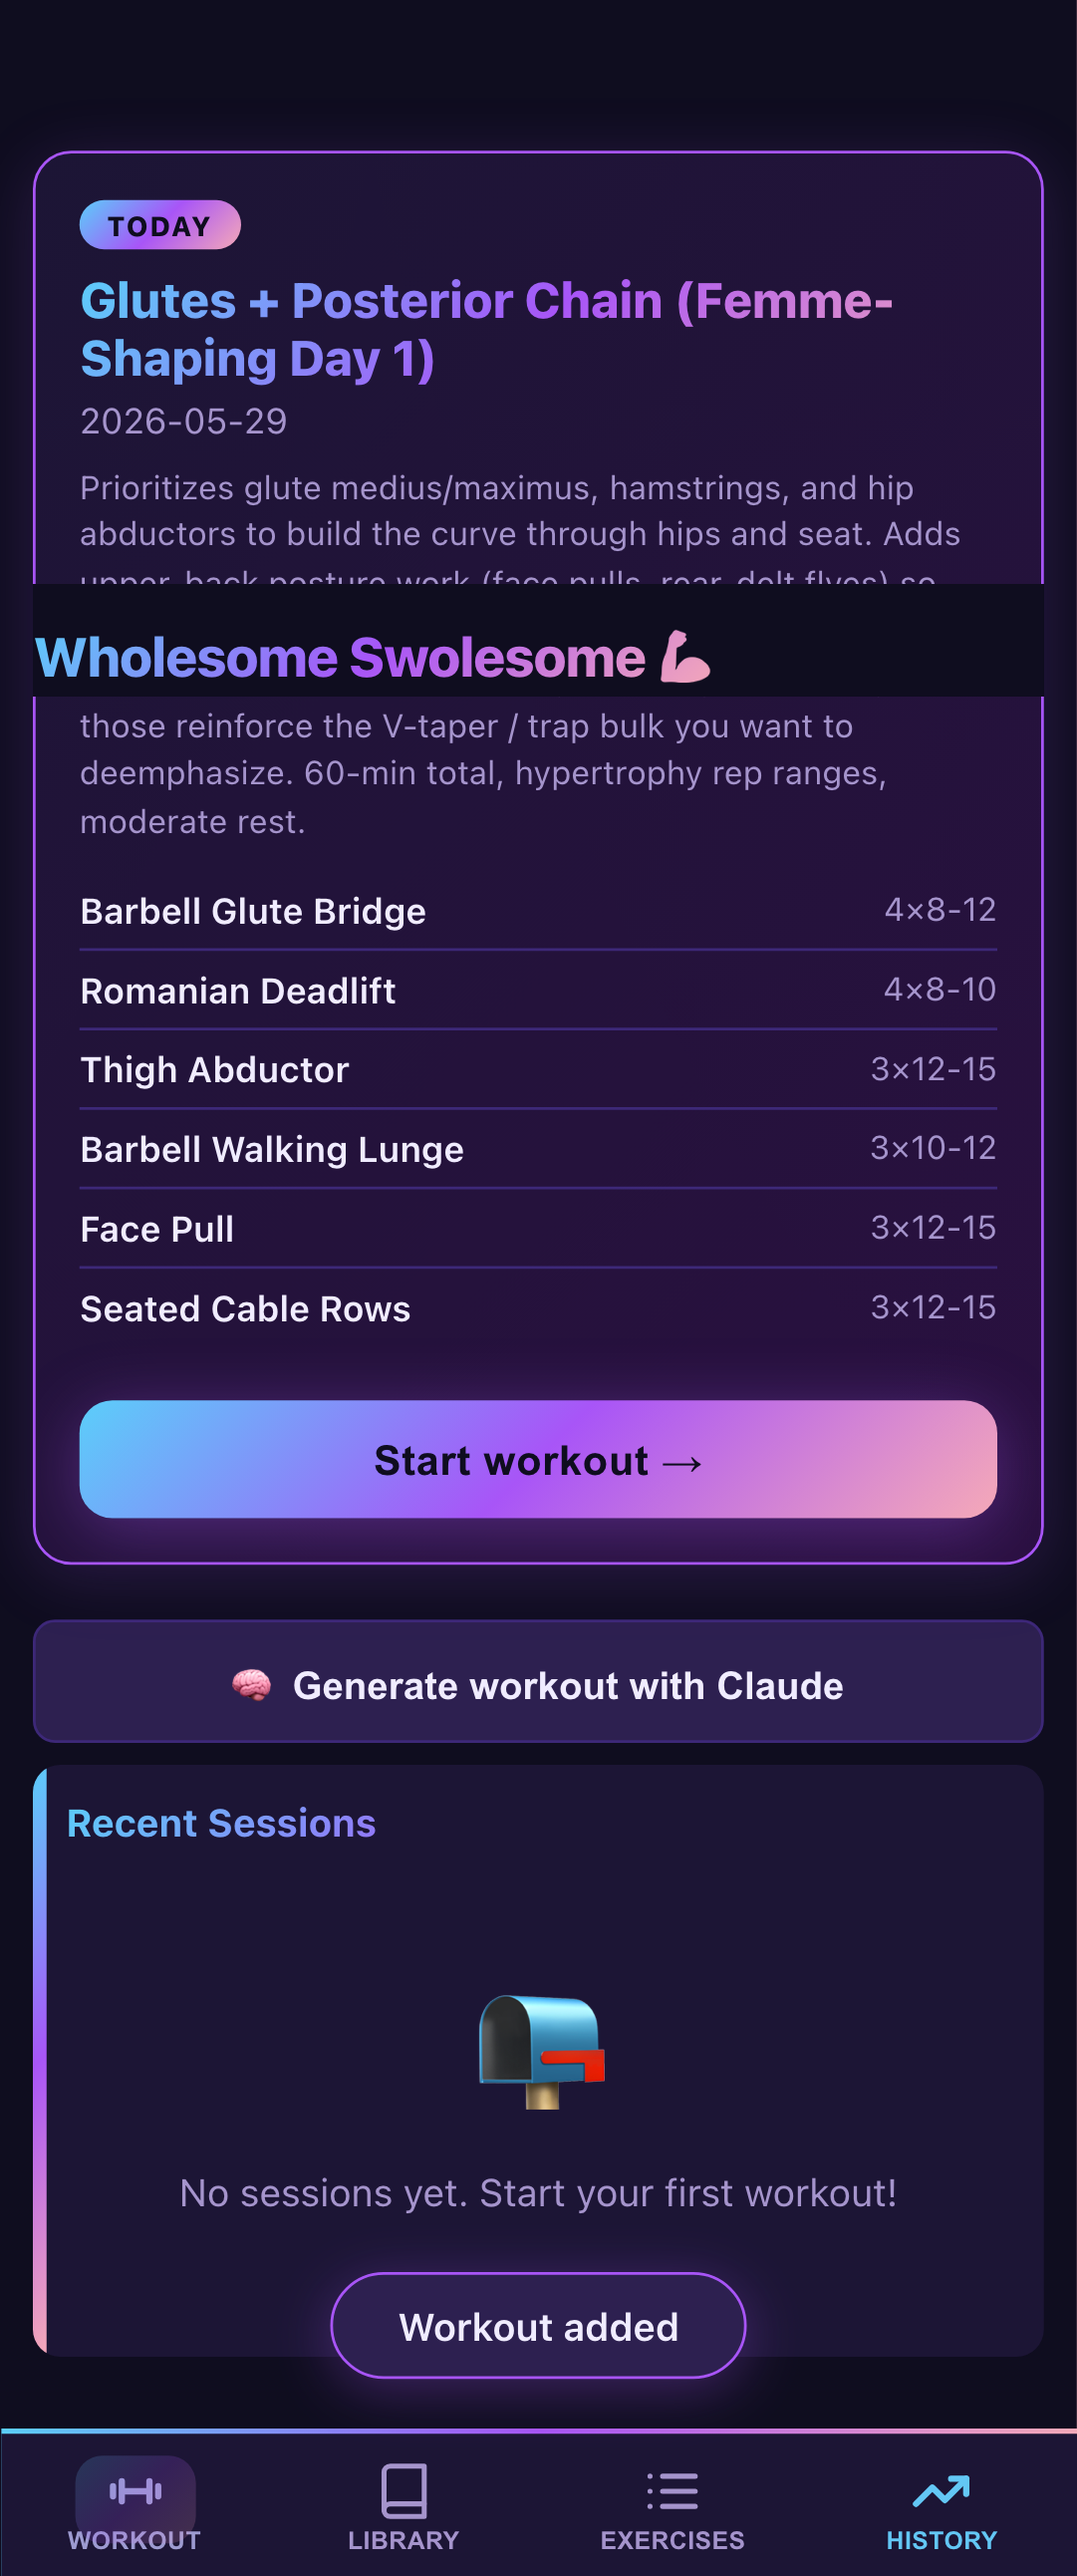
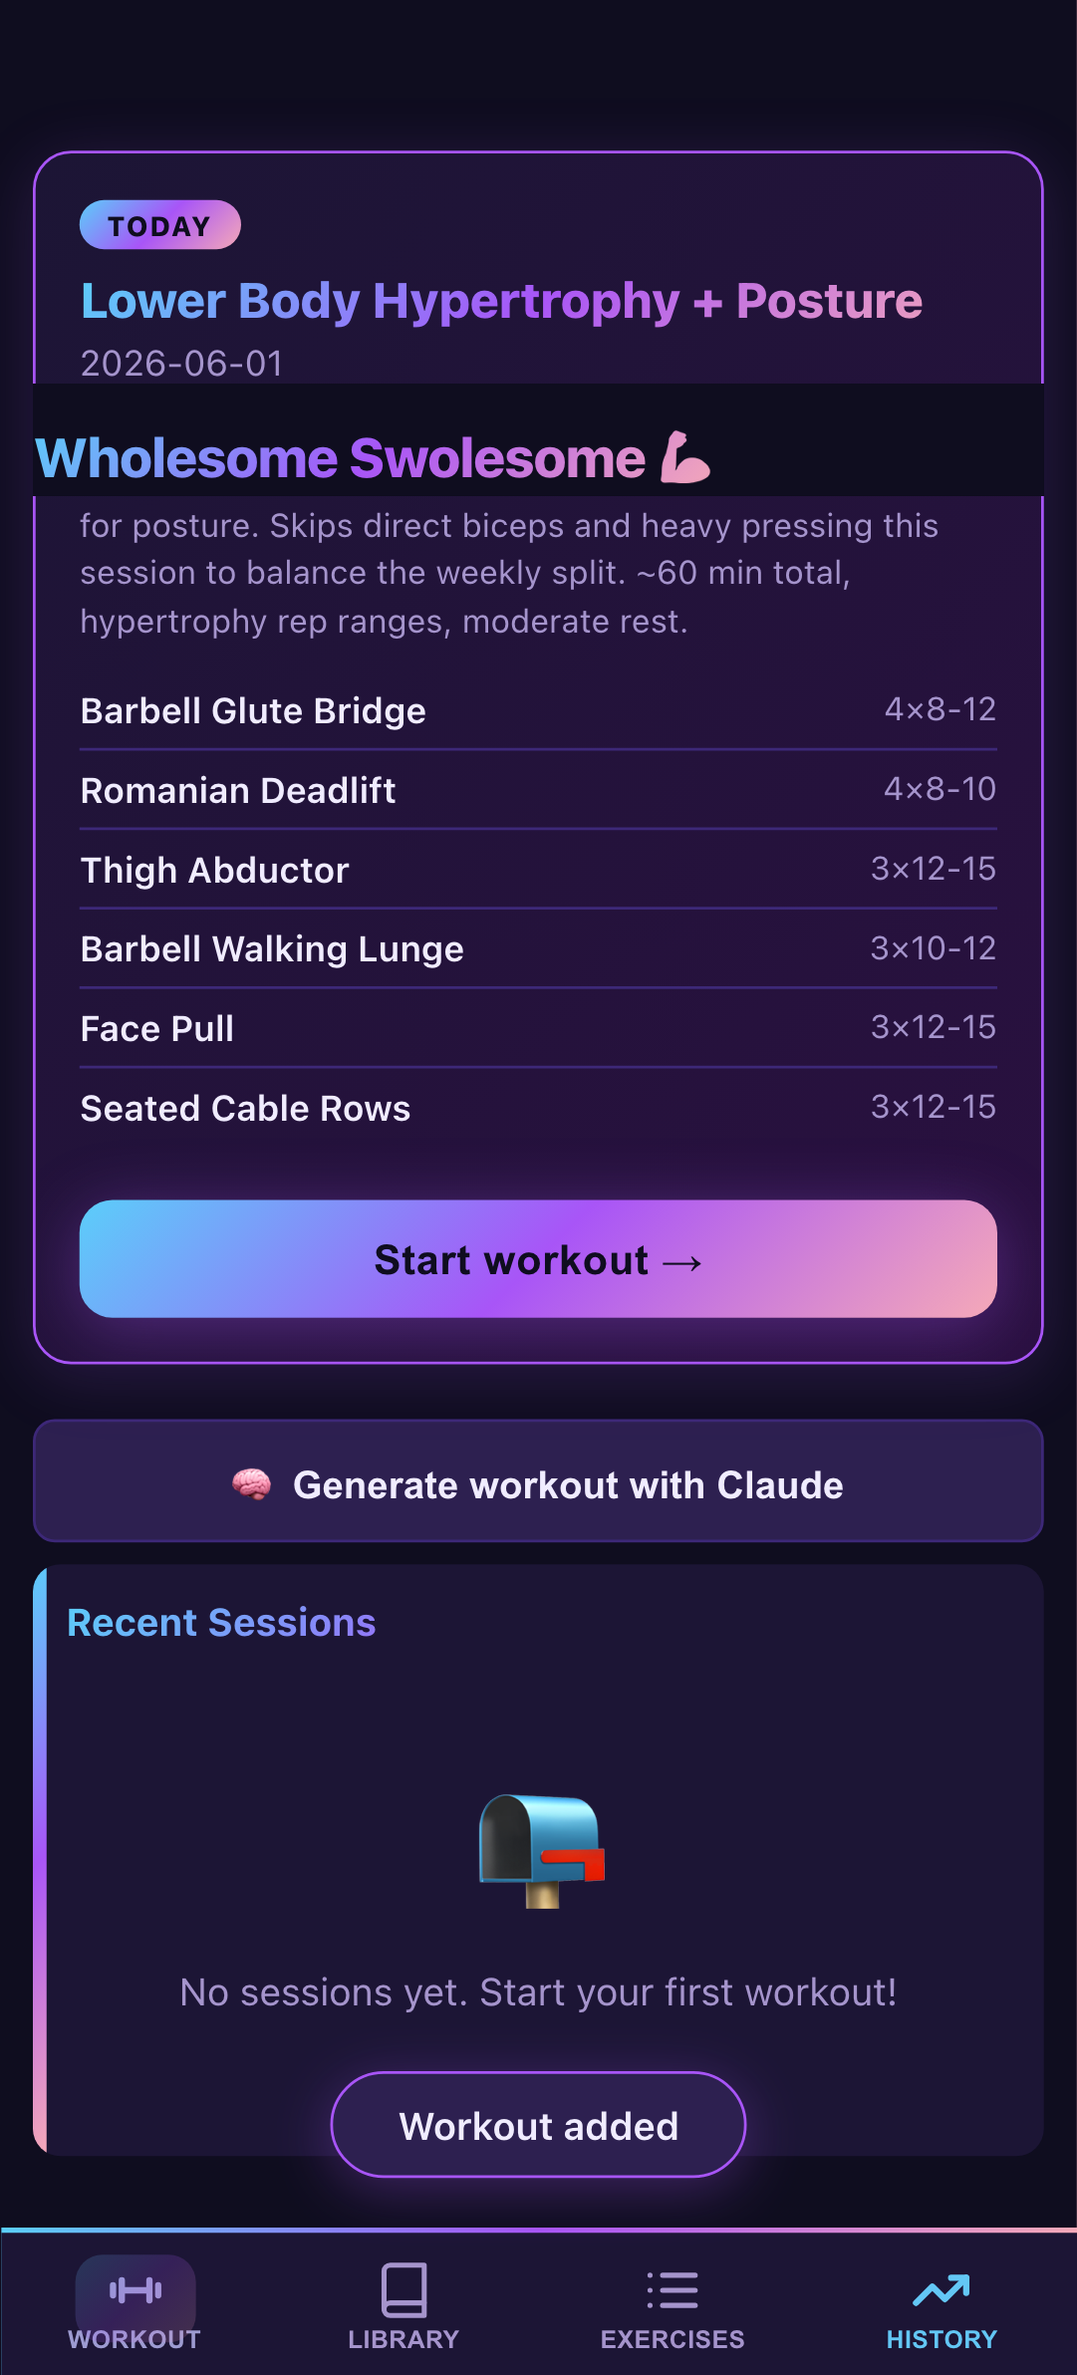
Scrub trans-femme + other personal references; make repo generic
The walkthrough test and its committed screenshots baked in trans-femme
goal language that was personally identifying. Rewrites the test as a
generic hypertrophy day, regenerates all 9 committed screenshots, and
tidies up a few other personal hints scattered through the repo.

Walkthrough

- tests/playwright/walkthrough_transfemme.spec.ts → walkthrough_hypertrophy.spec.ts
  (rename + describe block + SHOTS_DIR + content)
- Goals notes textarea: generic "Hypertrophy focus; balanced push/pull.
  Prefer compound lifts. Building glutes and posterior chain for athletic
  shape." (was: trans-femme-coded prompt)
- Avoid textarea: "Left shoulder limitation — no heavy overhead pressing."
  (was: lat/trap-avoidance prompt)
- COACH_RESPONSE name: "Lower Body Hypertrophy + Posture" (was: "Glutes
  + Posterior Chain (Femme-Shaping Day 1)")
- COACH_RESPONSE rationale + per-exercise notes rewritten without
  femme-coded language. Library IDs unchanged so the import validator
  is still exercised by real entries.
- All 9 docs/walkthrough/*.png regenerated from the new test
- docs/walkthrough.md + walkthrough_legday.spec.ts comment updated to
  reference the renamed spec file

Other personal hints

- src/components/options.rs default sync repo: "tbaums/wholesome-swolesome-data"
  → "you/wholesome-swolesome-data" (the user fills in their own at runtime;
  existing localStorage values are preserved). options.spec.ts assertion
  updated to match.
[…]

Changed region(s): [[0.0305, 0.0621, 0.9769, 0.7139], [0.0, 0.745, 1.0, 0.9933], [0.9463, 0.0621, 0.9769, 0.0931]]

diff --git a/tests/playwright/walkthrough_hypertrophy.spec.ts b/tests/playwright/walkthrough_hypertrophy.spec.ts
@@ -3,7 +3,7 @@ import * as path from 'path';
 import * as fs from 'fs';
 
 const BASE = 'http://localhost:8080';
-const SHOTS_DIR = path.join(__dirname, 'screenshots', 'walkthrough_transfemme');
+const SHOTS_DIR = path.join(__dirname, 'screenshots', 'walkthrough_hypertrophy');
 
 fs.mkdirSync(SHOTS_DIR, { recursive: true });
 
@@ -16,14 +16,13 @@ async function shot(page: Page, label: string) {
   console.log(`  📸 ${path.basename(file)}`);
 }
 
-// The user's prompt, hand-translated into a structured workout request.
-// Femme-shaping bias: glutes / hams / hip width / posterior chain / posture,
-// deemphasize lat width, trap bulk, chest mass, and direct biceps volume.
+// Generic hypertrophy lower-body + posture day. Library IDs are real entries
+// from /public/data/exercises.json so the import path exercises the validator.
 const COACH_RESPONSE = JSON.stringify(
   {
-    name: 'Glutes + Posterior Chain (Femme-Shaping Day 1)',
+    name: 'Lower Body Hypertrophy + Posture',
     rationale:
-      'Prioritizes glute medius/maximus, hamstrings, and hip abductors to build the curve through hips and seat. Adds upper-back posture work (face pulls, rear-delt flyes) so shoulders sit back and chest opens without adding lat flare. Skips direct biceps, heavy pressing, and shrugs — those reinforce the V-taper / trap bulk you want to deemphasize. 60-min total, hypertrophy rep ranges, moderate rest.',
+      'Glutes, hamstrings, and hip abductors with a mix of compound and isolation, plus rear-delt and mid-back work for posture. Skips direct biceps and heavy pressing this session to balance the weekly split. ~60 min total, hypertrophy rep ranges, moderate rest.',
     exercises: [
       {
         library_id: 'Barbell_Glute_Bridge',
@@ -41,7 +40,7 @@ const COACH_RESPONSE = JSON.stringify(
         reps_min: 8,
         reps_max: 10,
         rest_seconds: 120,
-        notes: 'Hinge bias — hamstrings + glute fibers, minimal lower-back drive.',
+        notes: 'Hinge bias — hamstrings and glute fibers, minimal lower-back drive.',
       },
       {
         library_id: 'Thigh_Abductor',
@@ -50,7 +49,7 @@ const COACH_RESPONSE = JSON.stringify(
         reps_min: 12,
         reps_max: 15,
         rest_seconds: 60,
-        notes: 'Glute medius — builds hip width / shelf above the seat.',
+        notes: 'Glute medius — builds lateral hip strength.',
       },
       {
         library_id: 'Barbell_Walking_Lunge',
@@ -68,7 +67,7 @@ const COACH_RESPONSE = JSON.stringify(
         reps_min: 12,
         reps_max: 15,
         rest_seconds: 60,
-        notes: 'Rear delts + external rotation — posture, opens chest without bulking pecs.',
+        notes: 'Rear delts and external rotation — shoulder health and posture.',
       },
       {
         library_id: 'Seated_Cable_Rows',
@@ -77,7 +76,7 @@ const COACH_RESPONSE = JSON.stringify(
         reps_min: 12,
         reps_max: 15,
         rest_seconds: 60,
-        notes: 'Mid-back thickness for posture; avoid wide-grip lat work that flares the back.',
+        notes: 'Mid-back thickness for posture.',
       },
     ],
   },
@@ -93,7 +92,7 @@ async function freshFromBase(page: Page) {
   await page.waitForSelector('.bottom-nav');
 }
 
-test.describe('Transfemme walkthrough', () => {
+test.describe('Hypertrophy walkthrough', () => {
   test('full goal → coach → session → history flow', async ({ page }) => {
     test.setTimeout(120_000);
 
@@ -139,16 +138,16 @@ test.describe('Transfemme walkthrough', () => {
       await page.locator('.goal-pill').filter({ hasText: new RegExp(`^${eq}$`) }).click();
     }
 
-    // ── 9. Notes textarea — the user's actual prompt ──────────────────────────
+    // ── 9. Notes textarea — a generic athletic-shape prompt ──────────────────
     const textareas = page.locator('.card textarea');
     // avoid box first
     await textareas.nth(0).fill(
-      'No heavy direct biceps work, no shrugs, no wide-grip pulldowns. Avoid anything that thickens lats or traps.',
+      'Left shoulder limitation — no heavy overhead pressing.',
     );
     await textareas.nth(0).press('Tab');
     // notes box second
     await textareas.nth(1).fill(
-      "I'm a transfemme person trying to maximize a femme silhouette and deemphasize my muscley masc default. Bias glutes, hamstrings, hip abductors, and posture (rear delts, mid-back). Avoid lat width, trap bulk, chest mass, and direct biceps volume. Aesthetics over strength PRs.",
+      'Hypertrophy focus; balanced push/pull. Prefer compound lifts. Building glutes and posterior chain for athletic shape.',
     );
     await textareas.nth(1).press('Tab');
 

diff --git a/tests/playwright/walkthrough_legday.spec.ts b/tests/playwright/walkthrough_legday.spec.ts
@@ -7,10 +7,10 @@ import * as fs from 'fs';
 //    with primary/secondary muscles highlighted.
 //  - A workout whose exercise names match library entries (Barbell Squat,
 //    Romanian Deadlift, etc.) colors the corresponding lower-body muscles
-//    on the History heatmap after the session is logged. The transfemme
-//    walkthrough only exercises name-matching for a few muscles; this one
-//    is specifically a regression net for the heatmap-coloring path on
-//    quads + glutes + hamstrings + calves.
+//    on the History heatmap after the session is logged. The main
+//    hypertrophy walkthrough only exercises name-matching for a few
+//    muscles; this one is specifically a regression net for the
+//    heatmap-coloring path on quads + glutes + hamstrings + calves.
 
 const BASE = 'http://localhost:8080';
 const SHOTS_DIR = path.join(__dirname, 'screenshots', 'walkthrough_legday');

diff --git a/tests/playwright/options.spec.ts b/tests/playwright/options.spec.ts
@@ -95,7 +95,7 @@ test.describe('Options view — sync configuration', () => {
     await expect(page.locator('input[type="text"]').nth(1)).toHaveValue('main');
     await expect(page.locator('input[type="text"]').nth(2)).toHaveValue('state.json');
     // Default repo placeholder name is filled
-    await expect(page.locator('input[type="text"]').first()).toHaveValue('tbaums/wholesome-swolesome-data');
+    await expect(page.locator('input[type="text"]').first()).toHaveValue('you/wholesome-swolesome-data');
   });
 
   test('Test connection: success path renders the sha confirmation', async ({ page }) => {

diff --git a/src/components/options.rs b/src/components/options.rs
@@ -16,7 +16,7 @@ pub fn OptionsView() -> impl IntoView {
     let saved = storage::load_sync_config();
     let token = RwSignal::new(saved.token);
     let repo = RwSignal::new(if saved.repo.is_empty() {
-        "tbaums/wholesome-swolesome-data".to_string()
+        "you/wholesome-swolesome-data".to_string()
     } else {
         saved.repo
     });

diff --git a/docs/walkthrough.md b/docs/walkthrough.md
@@ -205,7 +205,7 @@ about again — sidesteps the whole pile.
   (date, day, exercise, set #, reps, weight, completed, duration). If you ever
   outgrow the app, you walk away with a CSV.
 - **Walkthrough-as-tests.** This page's screenshots come from
-  `tests/playwright/walkthrough_transfemme.spec.ts` — the same e2e test that
+  `tests/playwright/walkthrough_hypertrophy.spec.ts` — the same e2e test that
   proves the goal → coach → session → history flow works end-to-end. Updating
   the screenshots is just re-running the test.
 

diff --git a/scripts/coach/PROMPT.md b/scripts/coach/PROMPT.md
@@ -22,7 +22,7 @@ The shell that invokes you sets these env vars; if they're missing, fall back to
 
 | Var | Default | Meaning |
 |---|---|---|
-| `WS_DATA_REPO` | `tbaums/wholesome-swolesome-data` | private repo holding `state.json` |
+| `WS_DATA_REPO` | `you/wholesome-swolesome-data` | private repo holding `state.json` (set this) |
 | `WS_DATA_BRANCH` | `main` | branch to read/write |
 | `WS_DATA_PATH` | `state.json` | path within the data repo |
 | `WS_APP_REPO` | `tbaums/wholesome-swolesome` | this repo, source of the library |
